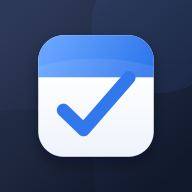
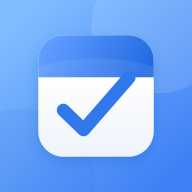
아이콘 테두리 제거와 긴 캘린더 이름 대응

diff --git a/app.js b/app.js
@@ -272,12 +272,24 @@ function updateDraggedRange(date) {
   render();
 }
 
+function fitCalendarTitle() {
+  currentCalendarTitle.style.removeProperty('font-size');
+  requestAnimationFrame(() => {
+    let fontSize = Number.parseFloat(getComputedStyle(currentCalendarTitle).fontSize);
+    while (currentCalendarTitle.scrollWidth > currentCalendarTitle.clientWidth && fontSize > 17) {
+      fontSize -= 1;
+      currentCalendarTitle.style.fontSize = `${fontSize}px`;
+    }
+  });
+}
+
 function updateCalendarHeading() {
   const activeName = sharedCalendars.find((calendar) => calendar.id === activeSharedCalendarId)?.name;
   const title = calendarScope === 'shared' ? (activeName || '공유 캘린더') : '나의 일정';
   currentCalendarTitle.textContent = title;
   currentCalendarTitle.title = title;
   composerScopeLabel.textContent = calendarScope === 'shared' ? (activeName || 'TOGETHER SCHEDULE') : 'MY SCHEDULE';
+  fitCalendarTitle();
 }
 
 function setCalendarScope(scope) {
@@ -564,6 +576,7 @@ document.addEventListener('keydown', (event) => {
 });
 
 applyTheme(document.documentElement.dataset.theme || 'light');
+window.addEventListener('resize', fitCalendarTitle);
 render();
 window.sharedCalendar?.init({
   onEvents(nextSharedEvents) {

diff --git a/index.html b/index.html
@@ -9,10 +9,10 @@
     <meta name="apple-mobile-web-app-title" content="캘린더" />
     <meta name="mobile-web-app-capable" content="yes" />
     <title>캘린더</title>
-    <link rel="manifest" href="manifest.webmanifest?v=13" />
-    <link rel="icon" href="icon.svg?v=13" type="image/svg+xml" />
-    <link rel="apple-touch-icon" sizes="180x180" href="apple-touch-icon.png?v=13" />
-    <link rel="stylesheet" href="styles.css?v=13" />
+    <link rel="manifest" href="manifest.webmanifest?v=14" />
+    <link rel="icon" href="icon.svg?v=14" type="image/svg+xml" />
+    <link rel="apple-touch-icon" sizes="180x180" href="apple-touch-icon.png?v=14" />
+    <link rel="stylesheet" href="styles.css?v=14" />
     <script>
       try {
         const savedTheme = localStorage.getItem('calendar-theme-v1');
@@ -188,8 +188,8 @@
       </article>
     </template>
     <script src="https://cdn.jsdelivr.net/npm/@supabase/supabase-js@2"></script>
-    <script src="supabase-config.js?v=13"></script>
-    <script src="shared-calendar.js?v=13"></script>
-    <script src="app.js?v=13"></script>
+    <script src="supabase-config.js?v=14"></script>
+    <script src="shared-calendar.js?v=14"></script>
+    <script src="app.js?v=14"></script>
   </body>
 </html>

diff --git a/sw.js b/sw.js
@@ -1,17 +1,17 @@
-const CACHE_NAME = 'calendar-v13';
+const CACHE_NAME = 'calendar-v14';
 const APP_SHELL = [
   './',
   './index.html',
-  './styles.css?v=13',
-  './app.js?v=13',
-  './shared-calendar.js?v=13',
-  './supabase-config.js?v=13',
-  './manifest.webmanifest?v=13',
-  './icon.svg?v=13',
-  './apple-touch-icon.png?v=13',
-  './icon-192.png?v=13',
-  './icon-512.png?v=13',
-  './icon-maskable-512.png?v=13',
+  './styles.css?v=14',
+  './app.js?v=14',
+  './shared-calendar.js?v=14',
+  './supabase-config.js?v=14',
+  './manifest.webmanifest?v=14',
+  './icon.svg?v=14',
+  './apple-touch-icon.png?v=14',
+  './icon-192.png?v=14',
+  './icon-512.png?v=14',
+  './icon-maskable-512.png?v=14',
 ];
 
 self.addEventListener('install', (event) => {

diff --git a/styles.css b/styles.css
@@ -74,7 +74,7 @@ button { cursor: pointer; -webkit-tap-highlight-color: transparent; }
 
 .topbar { margin-bottom: 22px; }
 .brand-group { min-width: 0; flex: 1; gap: 12px; justify-content: flex-start; }
-.brand-group > div { min-width: 0; }
+.brand-group > div { min-width: 0; flex: 1; }
 .brand-group h1 { overflow: hidden; text-overflow: ellipsis; white-space: nowrap; }
 .top-actions { flex: 0 0 auto; gap: 8px; }
 .eyebrow { margin: 0 0 5px; color: var(--text-tertiary); font-size: 0.69rem; font-weight: 700; letter-spacing: 0.12em; }
